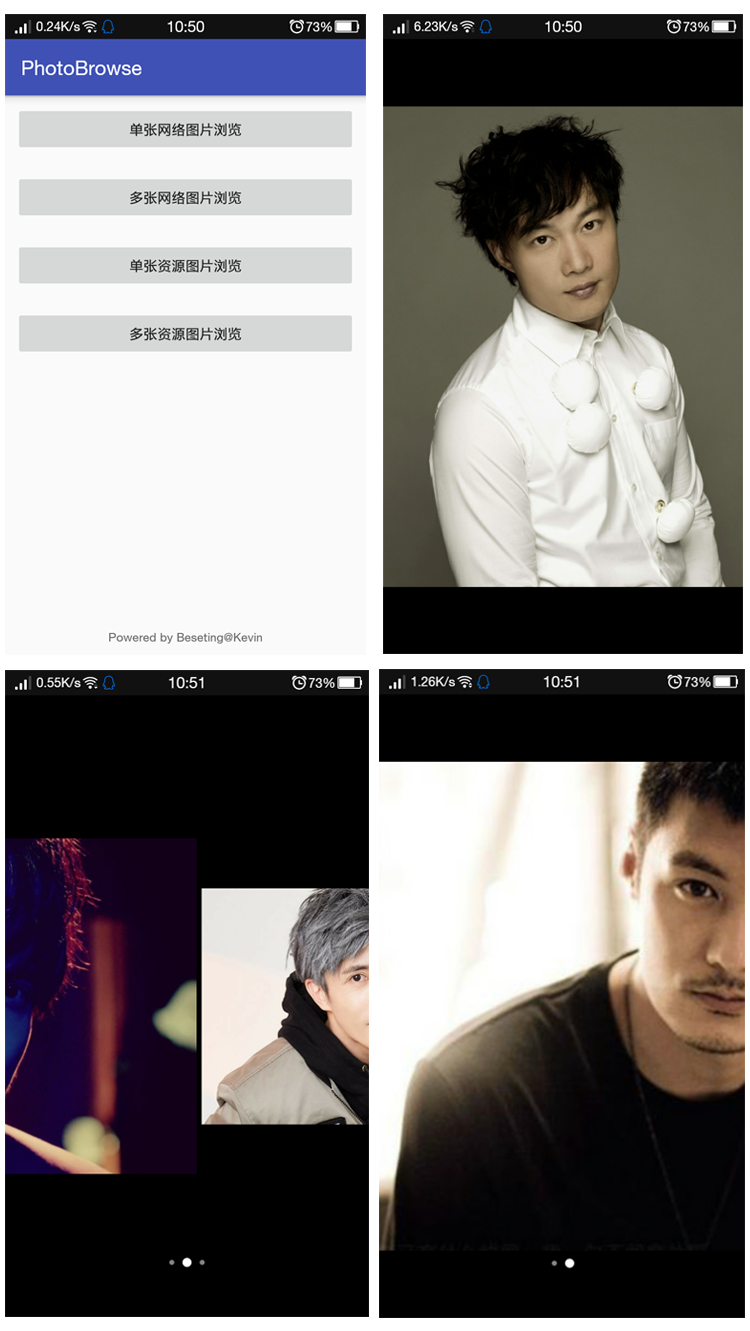
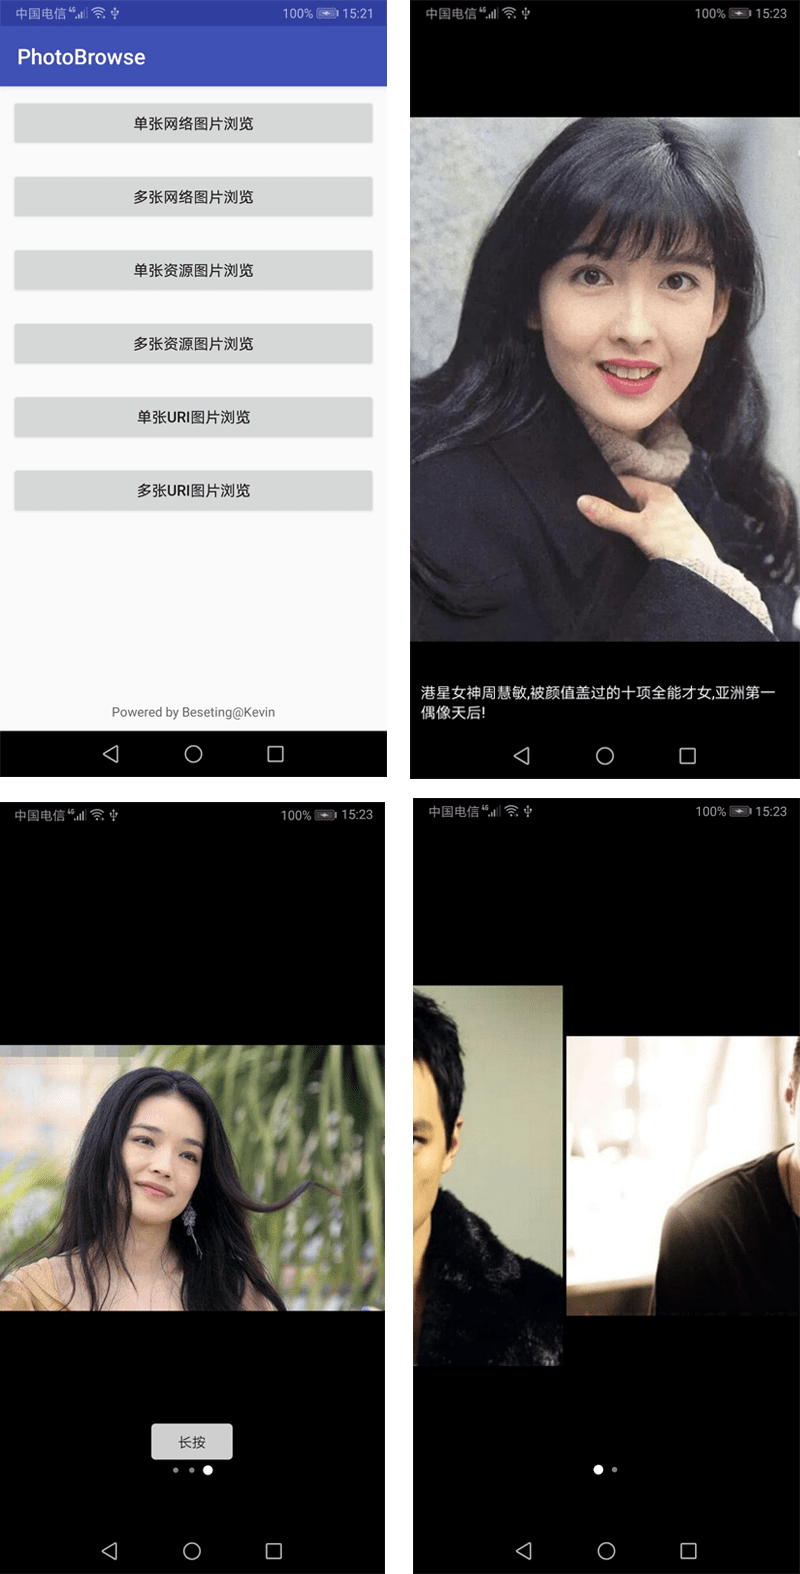
新增标题展示，更新文档

diff --git a/photo-browse/src/main/java/com/kevin/photo_browse/ui/ImageBrowseActivity.java b/photo-browse/src/main/java/com/kevin/photo_browse/ui/ImageBrowseActivity.java
@@ -10,6 +10,7 @@ import android.view.View;
 import android.view.Window;
 import android.widget.ImageView;
 import android.widget.RelativeLayout;
+import android.widget.TextView;
 
 import androidx.appcompat.app.AppCompatActivity;
 import androidx.viewpager.widget.ViewPager;
@@ -79,6 +80,8 @@ public class ImageBrowseActivity extends AppCompatActivity {
                         return true;
                     }
                 });
+                if (DataServer.getInstance().getTitle() != null)
+                    ((TextView) urlView.findViewById(R.id.titleTv)).setText(DataServer.getInstance().getTitle());
                 views.add(urlView);
                 indicator.setVisibility(View.GONE);
                 break;
@@ -107,6 +110,8 @@ public class ImageBrowseActivity extends AppCompatActivity {
                             return true;
                         }
                     });
+                    if (DataServer.getInstance().getTitleList() != null && DataServer.getInstance().getTitleList().size() > finalPosition)
+                        ((TextView) view.findViewById(R.id.titleTv)).setText(DataServer.getInstance().getTitleList().get(finalPosition));
                     views.add(view);
                 }
                 indicator.setVisibility(View.VISIBLE);
@@ -132,6 +137,8 @@ public class ImageBrowseActivity extends AppCompatActivity {
                         return true;
                     }
                 });
+                if (DataServer.getInstance().getTitle() != null)
+                    ((TextView) resIdView.findViewById(R.id.titleTv)).setText(DataServer.getInstance().getTitle());
                 views.add(resIdView);
                 indicator.setVisibility(View.GONE);
                 break;
@@ -160,6 +167,8 @@ public class ImageBrowseActivity extends AppCompatActivity {
                             return true;
                         }
                     });
+                    if (DataServer.getInstance().getTitleList() != null && DataServer.getInstance().getTitleList().size() > finalPosition)
+                        ((TextView) view.findViewById(R.id.titleTv)).setText(DataServer.getInstance().getTitleList().get(finalPosition));
                     views.add(view);
                 }
                 indicator.setVisibility(View.VISIBLE);
@@ -185,6 +194,8 @@ public class ImageBrowseActivity extends AppCompatActivity {
                         return true;
                     }
                 });
+                if (DataServer.getInstance().getTitle() != null)
+                    ((TextView) uriIdView.findViewById(R.id.titleTv)).setText(DataServer.getInstance().getTitle());
                 views.add(uri_photo_view);
                 indicator.setVisibility(View.GONE);
                 break;
@@ -213,6 +224,8 @@ public class ImageBrowseActivity extends AppCompatActivity {
                             return true;
                         }
                     });
+                    if (DataServer.getInstance().getTitleList() != null && DataServer.getInstance().getTitleList().size() > finalPosition)
+                        ((TextView) view.findViewById(R.id.titleTv)).setText(DataServer.getInstance().getTitleList().get(finalPosition));
                     views.add(view);
                 }
                 indicator.setVisibility(View.VISIBLE);

diff --git a/app/src/main/java/com/kevin/photobrowse/MainActivity.java b/app/src/main/java/com/kevin/photobrowse/MainActivity.java
@@ -39,6 +39,7 @@ public class MainActivity extends AppCompatActivity {
                 PhotoBrowse.with(MainActivity.this)
                         .showType(ShowType.SINGLE_URL)
                         .url("https://ss0.bdstatic.com/70cFuHSh_Q1YnxGkpoWK1HF6hhy/it/u=1213917104,3274061808&fm=26&gp=0.jpg")
+                        .title("港星女神周慧敏,被颜值盖过的十项全能才女,亚洲第一偶像天后!")
                         .show();
             }
         });
@@ -51,9 +52,13 @@ public class MainActivity extends AppCompatActivity {
                 imageList.add("https://timgsa.baidu.com/timg?image&quality=80&size=b9999_10000&sec=1605605280562&di=f0afe991cc0483d3775056a7fda7e16d&imgtype=0&src=http%3A%2F%2Fn.sinaimg.cn%2Fsinacn08%2F777%2Fw993h584%2F20181031%2Faa89-hnfikvc5826403.png");
                 imageList.add("https://timgsa.baidu.com/timg?image&quality=80&size=b9999_10000&sec=1605605241688&di=47e02706355fb725aad783806f14e464&imgtype=0&src=http%3A%2F%2Finews.gtimg.com%2Fnewsapp_match%2F0%2F6212494362%2F0.jpg");
                 imageList.add("https://timgsa.baidu.com/timg?image&quality=80&size=b9999_10000&sec=1605605410234&di=7a5ed0fff39f13f2167ea1507f1bb1c5&imgtype=0&src=http%3A%2F%2Fimg6.aili.com%2F201610%2F13%2F1476325737_52847600.jpg");
+                List<String> titleList = new ArrayList<>();
+                titleList.add("诺贝尔级“肽”抗衰领域全新应用，朱茵亲临樊文花新品发布会引领逆龄风潮");
+                titleList.add("有一种爱情，叫黄贯中与朱茵");
                 PhotoBrowse.with(MainActivity.this)
                         .showType(ShowType.MULTIPLE_URL)
                         .url(imageList)
+                        .title(titleList)
                         .position(2)//初始预览位置 默认0
                         .callback(new ClickCallback() {
                             @Override

diff --git a/README.md b/README.md
@@ -1,5 +1,5 @@
 # PhotoBrowse
-图片浏览库，单张/多张网络图片，单张/多张资源图片，单张/多张Uri图片，基于PhotoView，Picasso开源框架整合，支持缩放，单点退出，后续升级更多功能！
+图片浏览库，单张/多张网络图片，单张/多张资源图片，单张/多张Uri图片，基于PhotoView，Glide开源框架整合，支持缩放，单点退出，事件回调，标题内容配置等，后续升级更多功能！
 
 [![](https://jitpack.io/v/Beseting/PhotoBrowse.svg)](https://jitpack.io/#Beseting/PhotoBrowse)
 
@@ -9,20 +9,15 @@
 
 ## 留下你们的小❤❤吧↑↑↑
 
-## Download
-
-使用之前别忘了加上网络请求权限哦 要不然网络图片是加载不出来的<br />
-
-<b>```<uses-permission android:name="android.permission.INTERNET" />```</b>
+<br />
 
 ### gradle:
 
 #### 1.在项目的build.gradle中
 
-
     allprojects {
         repositories {
-    		...
+        	...
 			maven { url 'https://jitpack.io' }
 		}
 	}
@@ -68,17 +63,23 @@
 
 	PhotoBrowse.with(MainActivity.this)
                         .showType(ShowType.SINGLE_URL)
+                        .title("xxx")//选传，不配置则不显示
                         .url("xxx")
                         .show();
 
-#### 多张网络图片
+
+#### 多张网络图片（可配置事件回调）
 
 	List<String> imageList = new ArrayList<>();
 	imageList.add("...");
 	...
+	List<String> titleList = new ArrayList();
+	titleList.add("...");
+	...
 	PhotoBrowse.with(MainActivity.this)
                         .showType(ShowType.MULTIPLE_URL)
                         .url(imageList)
+                        .title(titleList)//选传，不配置则不显示
                         .position(2)//初始预览位置 默认0
                         .callback(new ClickCallback() {
                             @Override
